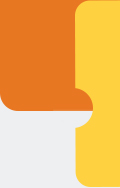
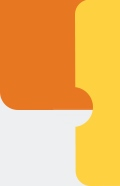
fix img

diff --git a/source/index.html b/source/index.html
@@ -242,15 +242,15 @@ thanh toán</td>
 							<tr>
 								<td valign="top" bgcolor="#e87722" style="margin: 0; padding: 0; border: none; font-family: Arial, Helvetica, sans-serif !important; font-size: 14px; line-height: 1.3;"><table width="100%" border="0" cellpadding="0" cellspacing="0" class="chs_body">
 									<tr>
-										<td width="60" valign="top" style="margin: 0; padding: 0; border: none; font-family: Arial, Helvetica, sans-serif !important; font-size: 15px; line-height: 1.3;"><img src="https://hsbcvietnam.github.io/fwd-edm-2021-oct-dongphi/source/image/chs_box_7.jpg" width="60" height="94" alt="" style="display: block"/></td>
+										<td width="60" valign="top" style="margin: 0; padding: 0; border: none; font-family: Arial, Helvetica, sans-serif !important; font-size: 15px; line-height: 1.3;"><img src="https://hsbcvietnam.github.io/fwd-edm-2021-oct-dongphi/source/image/chs_box_7.jpg" width="60" height="93" alt="" style="display: block"/></td>
 										<td width="168" valign="middle" align="center" bgcolor="#fed141" style="margin: 0; padding: 0; border: none; font-family: Arial, Helvetica, sans-serif !important; font-size: 14px; line-height: 1.3;"><strong>100.000 đồng</strong><br />
 với mức phí đóng từ<br />
 3 - 5 triệu đồng</td>
-										<td width="79" valign="top" style="margin: 0; padding: 0; border: none; font-family: Arial, Helvetica, sans-serif !important; font-size: 15px; line-height: 1.3;"><img src="https://hsbcvietnam.github.io/fwd-edm-2021-oct-dongphi/source/image/chs_box_8.jpg" width="79" height="94" alt="" style="display: block"/></td>
+										<td width="79" valign="top" style="margin: 0; padding: 0; border: none; font-family: Arial, Helvetica, sans-serif !important; font-size: 15px; line-height: 1.3;"><img src="https://hsbcvietnam.github.io/fwd-edm-2021-oct-dongphi/source/image/chs_box_8.jpg" width="79" height="93" alt="" style="display: block"/></td>
 										<td valign="middle" align="center" bgcolor="#0097a9" style="margin: 0; padding: 0; border: none; font-family: Arial, Helvetica, sans-serif !important; font-size: 14px; line-height: 1.3; color: #FFFFFF;"><strong>200.000 đồng</strong><br />
 với mức phí đóng từ<br />
 5 triệu đồng trở lên</td>
-										<td width="67" valign="top" style="margin: 0; padding: 0; border: none; font-family: Arial, Helvetica, sans-serif !important; font-size: 15px; line-height: 1.3;"><img src="https://hsbcvietnam.github.io/fwd-edm-2021-oct-dongphi/source/image/chs_box_9.jpg" width="67" height="94" alt="" style="display: block"/></td>
+										<td width="67" valign="top" style="margin: 0; padding: 0; border: none; font-family: Arial, Helvetica, sans-serif !important; font-size: 15px; line-height: 1.3;"><img src="https://hsbcvietnam.github.io/fwd-edm-2021-oct-dongphi/source/image/chs_box_9.jpg" width="67" height="93" alt="" style="display: block"/></td>
 									</tr>
 									</table></td>
 							</tr>
